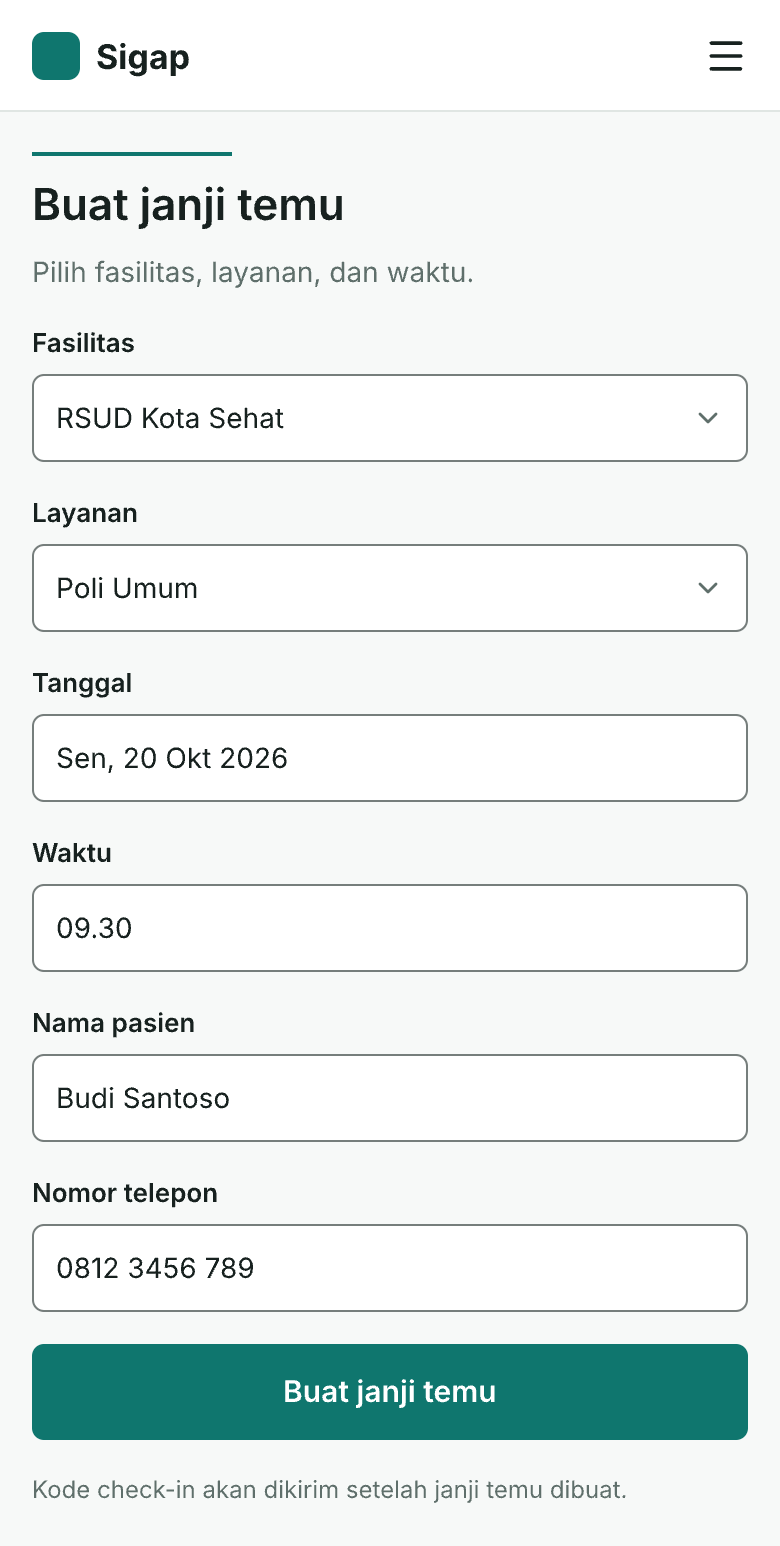
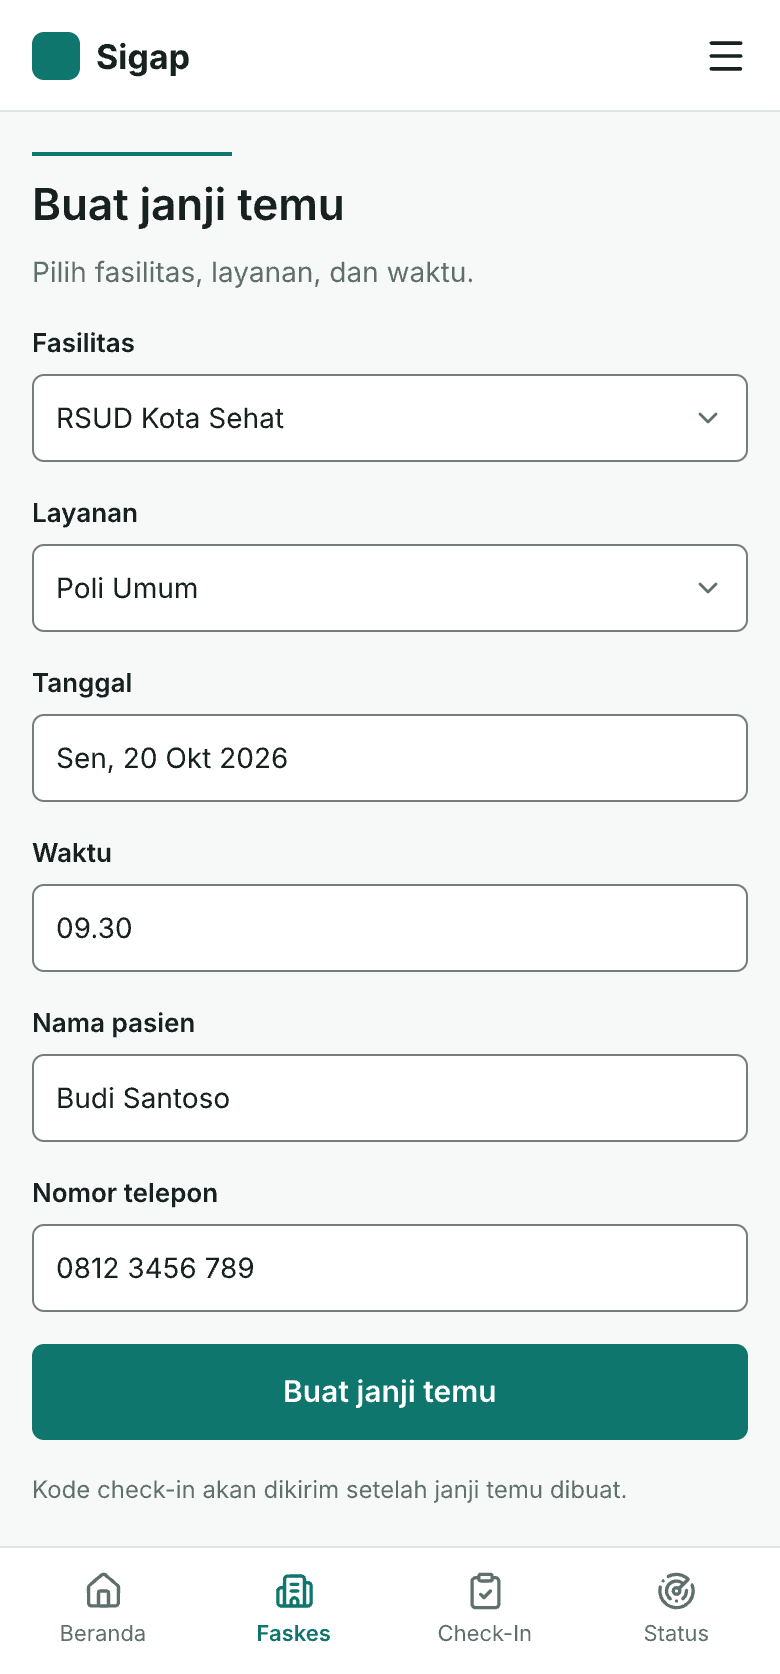
fix(sigap-v2.1): add missing bottom nav to mobile booking
33 Citizen Mobile / Buat Janji had no bottom nav while all 6 other citizen
mobile frames did, leaving the screen a dead end. Added with Faskes active -
the booking route is entered from the Faskes list and no tab maps to
/appointments/new directly.

sigap.pen sha256 8ececa12e6687a691fef138e7d3f9432e00ab28e71cf7ec8bf8af10a97127858

diff --git a/design/prototypes/SIGAP-V2-HANDOFF.md b/design/prototypes/SIGAP-V2-HANDOFF.md
@@ -1,7 +1,7 @@
 # SIGAP V2.1 — Pen.dev Prototype Handoff
 
 **Artifact (canonical):** `F:\Sehat-Hub\design\prototypes\sigap.pen`
[2 lines of base64/hex data omitted]
 **Byte-identical mirror:** `F:\sigap-design-v2\design\prototypes\sigap-civic-v2.pen` (branch `design/sigap-v2-prototype`)
 **Document:** Pen.dev schema **v2.21**, **37 top-level frames**, 36 variables, **18 reusable components**, 28 ref instances, 2,993 nodes, **0 broken references**, **0 top-level frame overlaps**.
 
@@ -231,6 +231,7 @@ Visual QA ran through a vision model on exported PNGs at every stage. **V2 defec
 26. **Redundant auth labels.** On `/auth/login` the masthead offered "Masuk" beside a submit also labelled "Masuk". The masthead now offers the *alternate* action: "Daftar" on the login screen, "Masuk" on the register screen.
 27. **Three empty input boxes** — the desktop Check-In code field was a genuinely empty frame (0 children), and the optional-note and error-state time fields held blank text nodes. Each given a muted placeholder. Two remaining empty frames are deliberate flex spacers inside `C/Admin/SidebarRail`.
 28. **Collapsed badge inside the table-row component.** The DataRow component (`a913rh`) contains a badge ref whose target (`a7fsY`) carries `layoutPosition: absolute` — the same inheritance trap that broke the V2 masthead. The instance rendered at the *component's* gallery coordinates (40,288) instead of inside its StatusCell, so the gallery's STATUS column looked empty. Fixed by giving the ref explicit `width`/`height` and `layoutPosition: auto`; it now resolves to (0,7) inside the cell and is vertically centred. Vision-verified. Audit of all 28 refs confirms this was the only ref nested inside another component — the other 27 are direct children of top-level frames.
+29. **Missing bottom nav on 33 Citizen Mobile / Buat Janji / 390.** Every other citizen mobile frame (30, 31, 32, 34, 35, 36) carries the bottom nav; this one did not, leaving the screen as a dead end. Added with **Faskes** active — the booking route is entered from the Faskes list, and no tab maps to `/appointments/new` directly. Vision-verified: 4 labelled tabs, Faskes teal, no overlap with the form.
 
 **Final integrity check:** 37 top-level frames, 0 overlaps, 0 broken refs, 0 text nodes below 11px, 0 fabricated records, route map matches the app 1:1.
 

diff --git a/design/prototypes/v21-shots/MANIFEST.md b/design/prototypes/v21-shots/MANIFEST.md
@@ -2,8 +2,8 @@
 
 Generated: 2026-10-16
 Source: `F:\Sehat-Hub\design\prototypes\sigap.pen`
[1 lines of base64/hex data omitted]
-Source size: 1,332,228 bytes
[1 lines of base64/hex data omitted]
+Source size: 1,333,140 bytes
 Mirror (byte-identical): `F:\sigap-design-v2\design\prototypes\sigap-civic-v2.pen`
 Frame count: **37** (was 28 at the V2 hand-off)
 PNG scale: 2x
@@ -38,7 +38,7 @@ Export dir: `F:\Sehat-Hub\design\prototypes\v21-shots\`
[8 lines of base64/hex data omitted]
@@ -74,6 +74,7 @@ Export dir: `F:\Sehat-Hub\design\prototypes\v21-shots\`
 - Top-level overlap test (AABB, all pairs): **0 overlaps**
 - Broken component references: **0**
 - Refs nested inside other components: **1** (`n7h5uA`, explicit size, resolves inside its cell)
+- Citizen mobile frames carrying the bottom nav: **7 / 7**
 - Text nodes below the 11px floor: **0**
 - Filled primary buttons per real screen: **≤1** (vision-verified on 11, 13, 14, 15, 16, 17, 18)
 - Fabricated visit records: **0**
